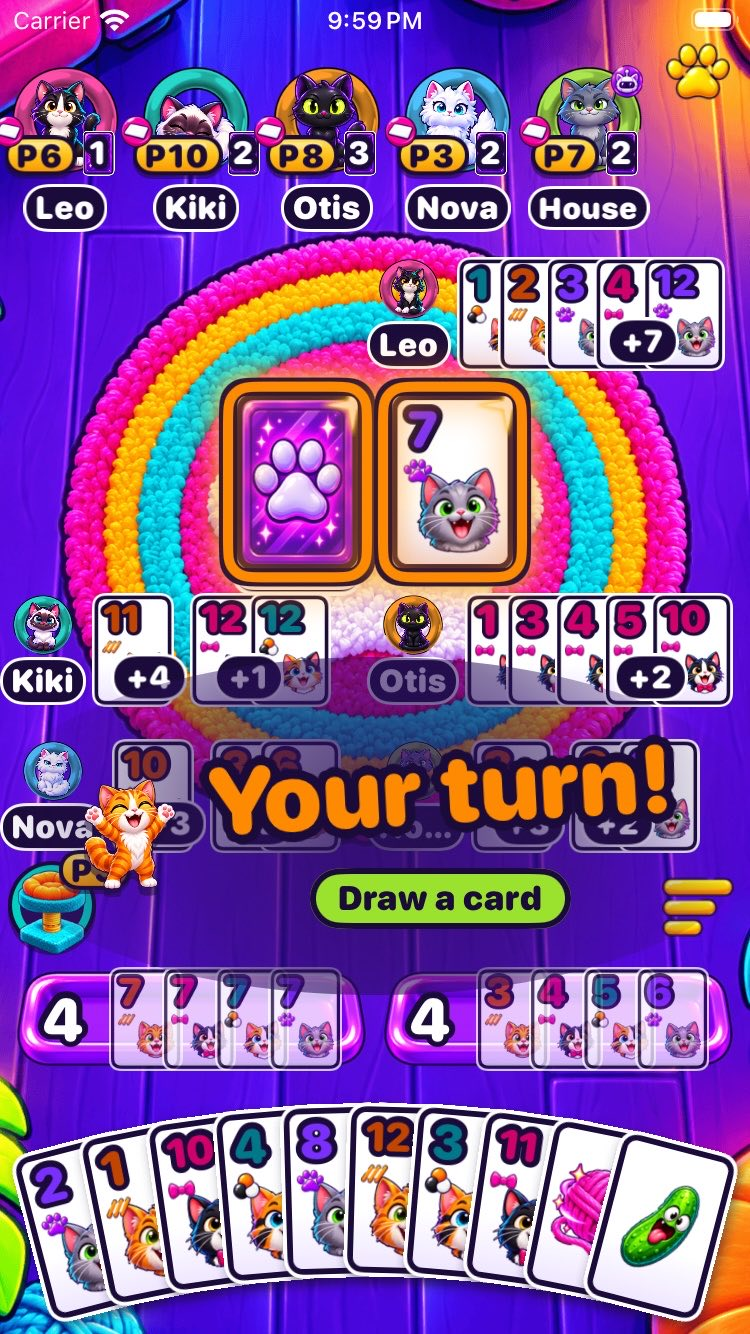
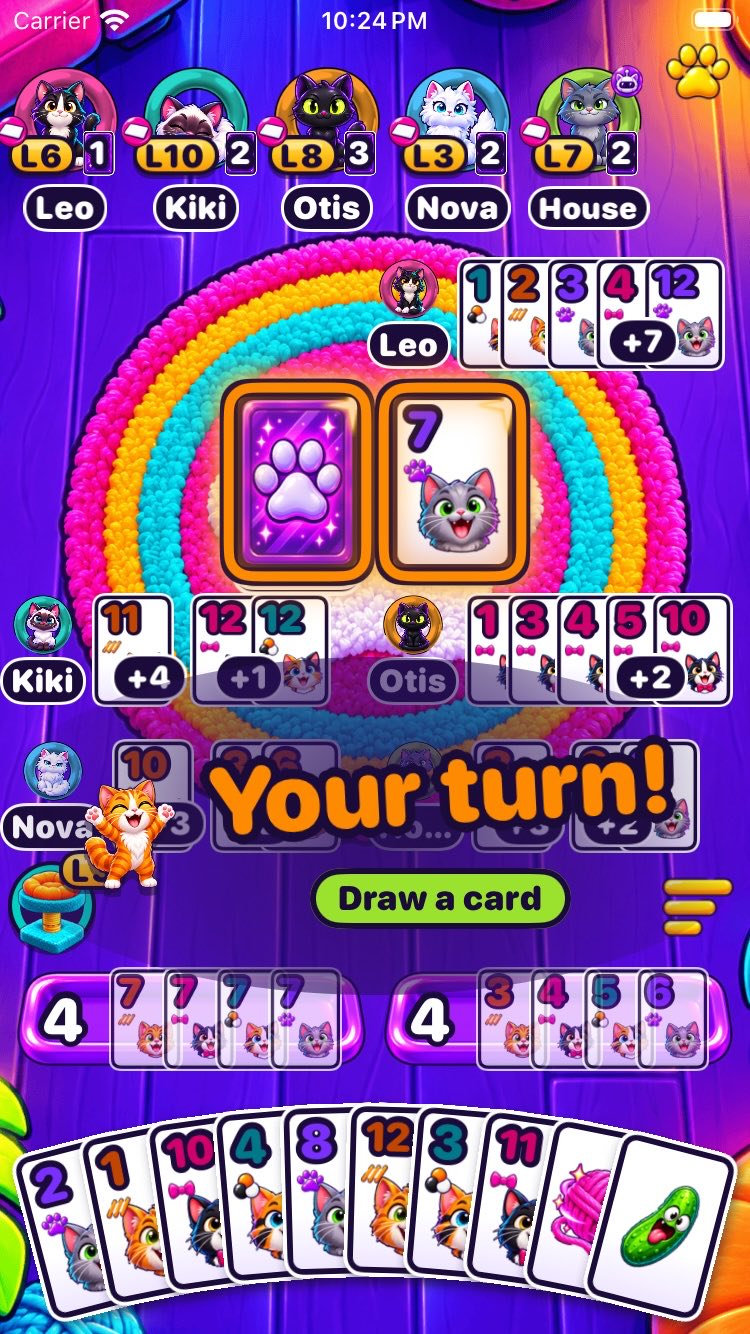
fix(home): practice pill and archive hint fit a short phone after merging main

diff --git a/apps/play-ios/Pounce/Shell/HomeView.swift b/apps/play-ios/Pounce/Shell/HomeView.swift
@@ -31,17 +31,19 @@ struct HomeView: View {
                 if sizeClass == .regular {
                     roomy(geo.size)
                 } else {
-                    VStack(spacing: 14) {
+                    // Empty Home on a short phone: tighter, so the practice pill clears the owner's cat.
+                    VStack(spacing: shownItems.isEmpty && geo.size.height < 700 ? 7 : 14) {
                         // Under the bell and gear row, the phone's full width, so a connection or two shows whole.
                         if showStrip { strip(scale: 1).padding(.top, 40) }
                         // With no tables the practice pill joins the two big ones: the hero gives
                         // up a little height so all three clear the owner's cat on a short phone.
                         hero(
                             width: geo.size.width,
-                            height: geo.size.height * (showStrip ? 0.78 : 1) * (shownItems.isEmpty ? 0.72 : 1))
+                            height: geo.size.height * (showStrip ? 0.78 : 1)
+                                * (shownItems.isEmpty ? (geo.size.height < 700 ? 0.64 : 0.72) : 1))
                         pills(width: geo.size.width)
-                        practicePill(width: geo.size.width)
-                        Spacer(minLength: shownItems.isEmpty ? 40 : 8)
+                        practicePill(width: geo.size.width, short: geo.size.height < 700)
+                        Spacer(minLength: 8)
                         // The hint floats over the row's top edge: it never moves the cards.
                         tablesRow
                             .overlay(alignment: .top) { archiveHint.offset(y: -34) }
@@ -277,10 +279,10 @@ struct HomeView: View {
     }
 
     /// With no tables yet, a way to just try the game: a practice round against the House Cat.
-    @ViewBuilder private func practicePill(width: CGFloat) -> some View {
+    @ViewBuilder private func practicePill(width: CGFloat, short: Bool = false) -> some View {
         if shownItems.isEmpty {
             PillButton(
-                icon: ArtName.badgeBot, color: Palette.magenta, size: .medium, width: min(width - 56, 360),
+                icon: ArtName.badgeBot, color: Palette.magenta, size: short ? .small : .medium, width: min(width - 56, 360),
                 title: String(localized: "Practice with the House Cat", comment: "Home, with no tables: starts a game against the computer player"),
                 accessibilityLabel: "Practice with the House Cat"
             ) {
